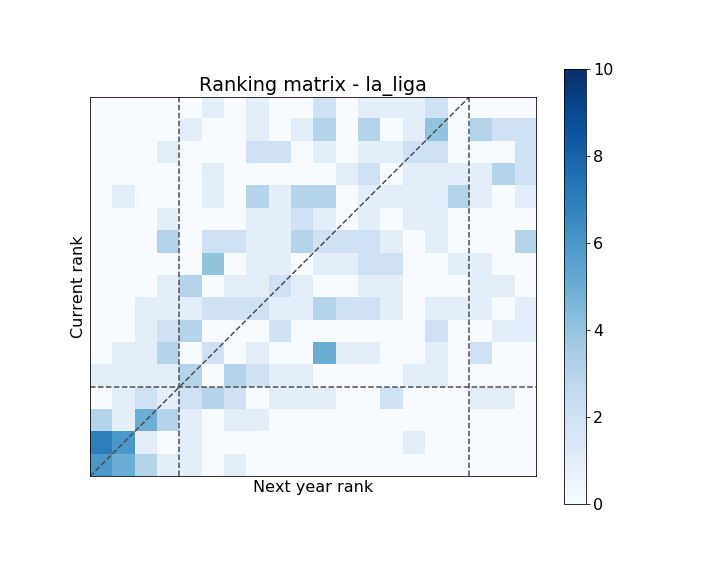
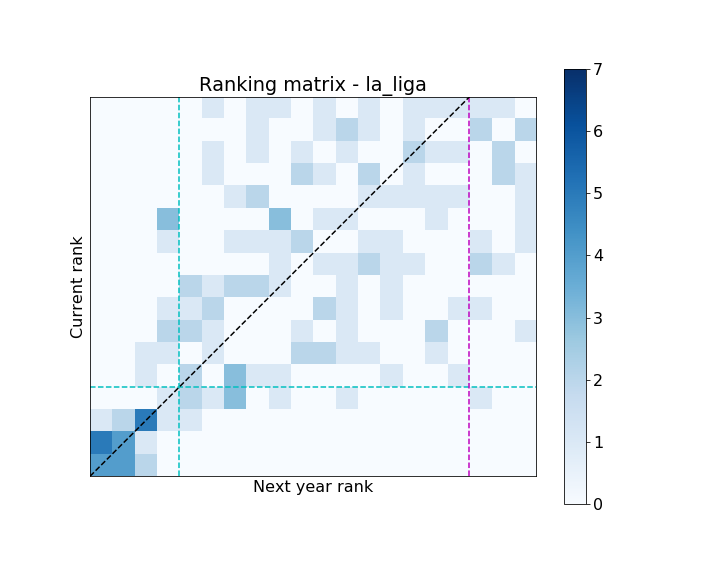
updating status and adding commentary

diff --git a/README.md b/README.md
@@ -8,6 +8,18 @@ I created a matrix which counts the tuple of (rank in current year, rank in next
 
 Here are the matrices for the first division leagues of England (premier league) and Spain (la liga).
 
+
+
+**Description**: The matrix represents the counts of entries for the tuple of ranks. The bottom left cell is the count where the rank for a team was 1 in a year x, and also 1 in the year x+1. The cell to the right is the count of teams which slipped from rank 1 to rank 2 y-o-y.
+
+ The green line marks the spots for champions league, and the red line marks the relegation zone.
+
 ![Ranking matrix for premier league](./ranking_mat/prem.png)
 
 ![Ranking matrix for premier league](./ranking_mat/laliga.png)
+
+#### Observations
+
+* The top four spot has very low competition in la liga
+* The rankings in middle of the table do not change very much y-o-y for the premier league
+* The premeir league's relegation zone seems more predictable
